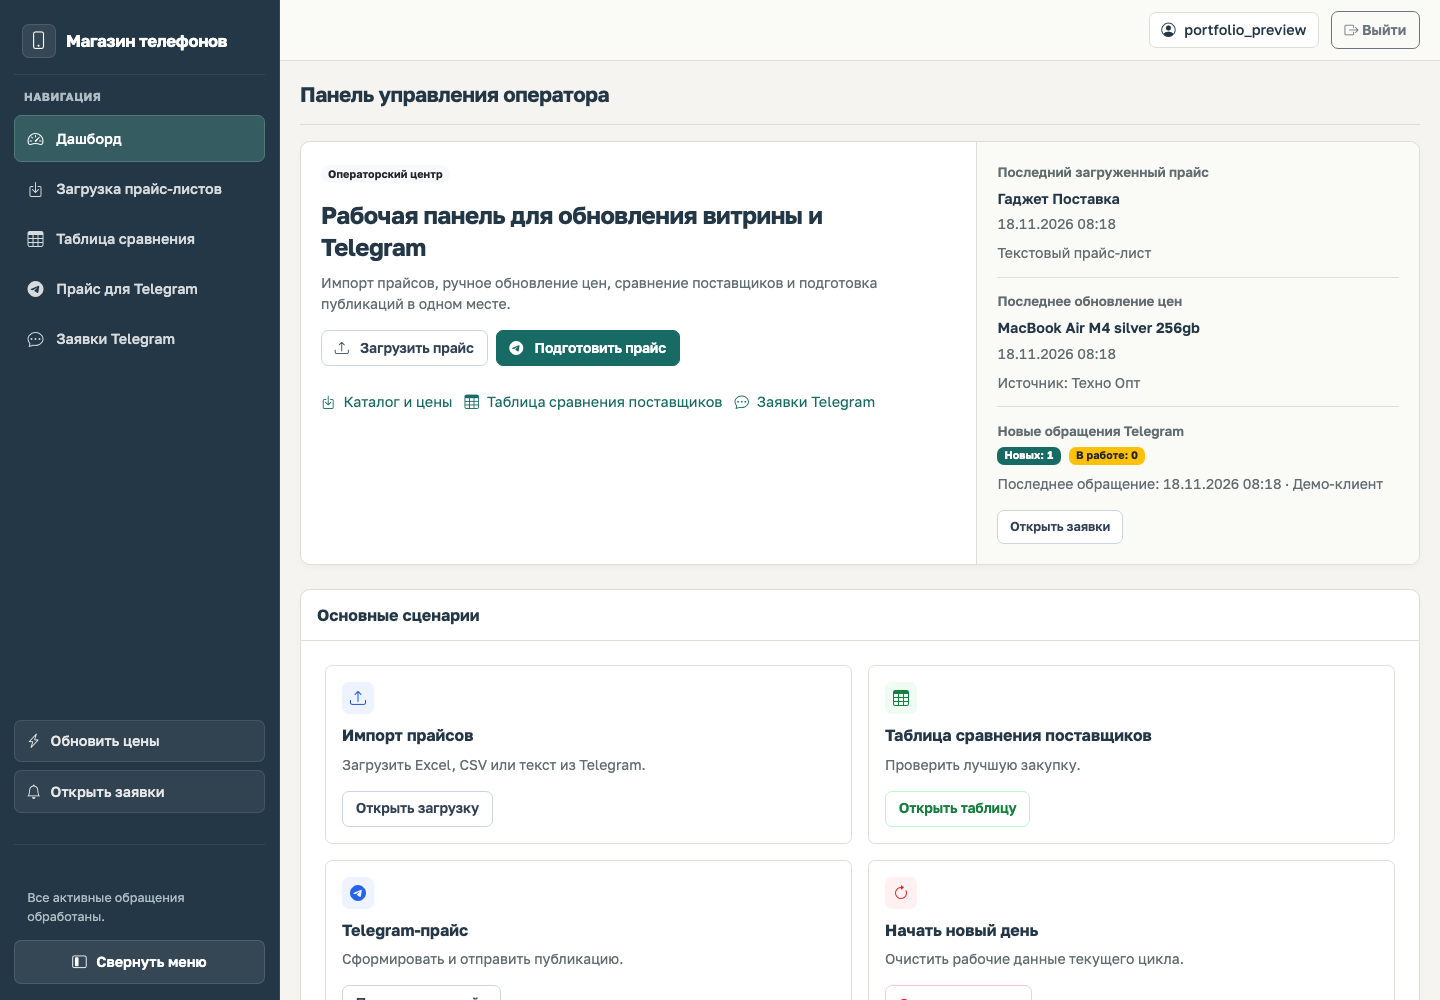
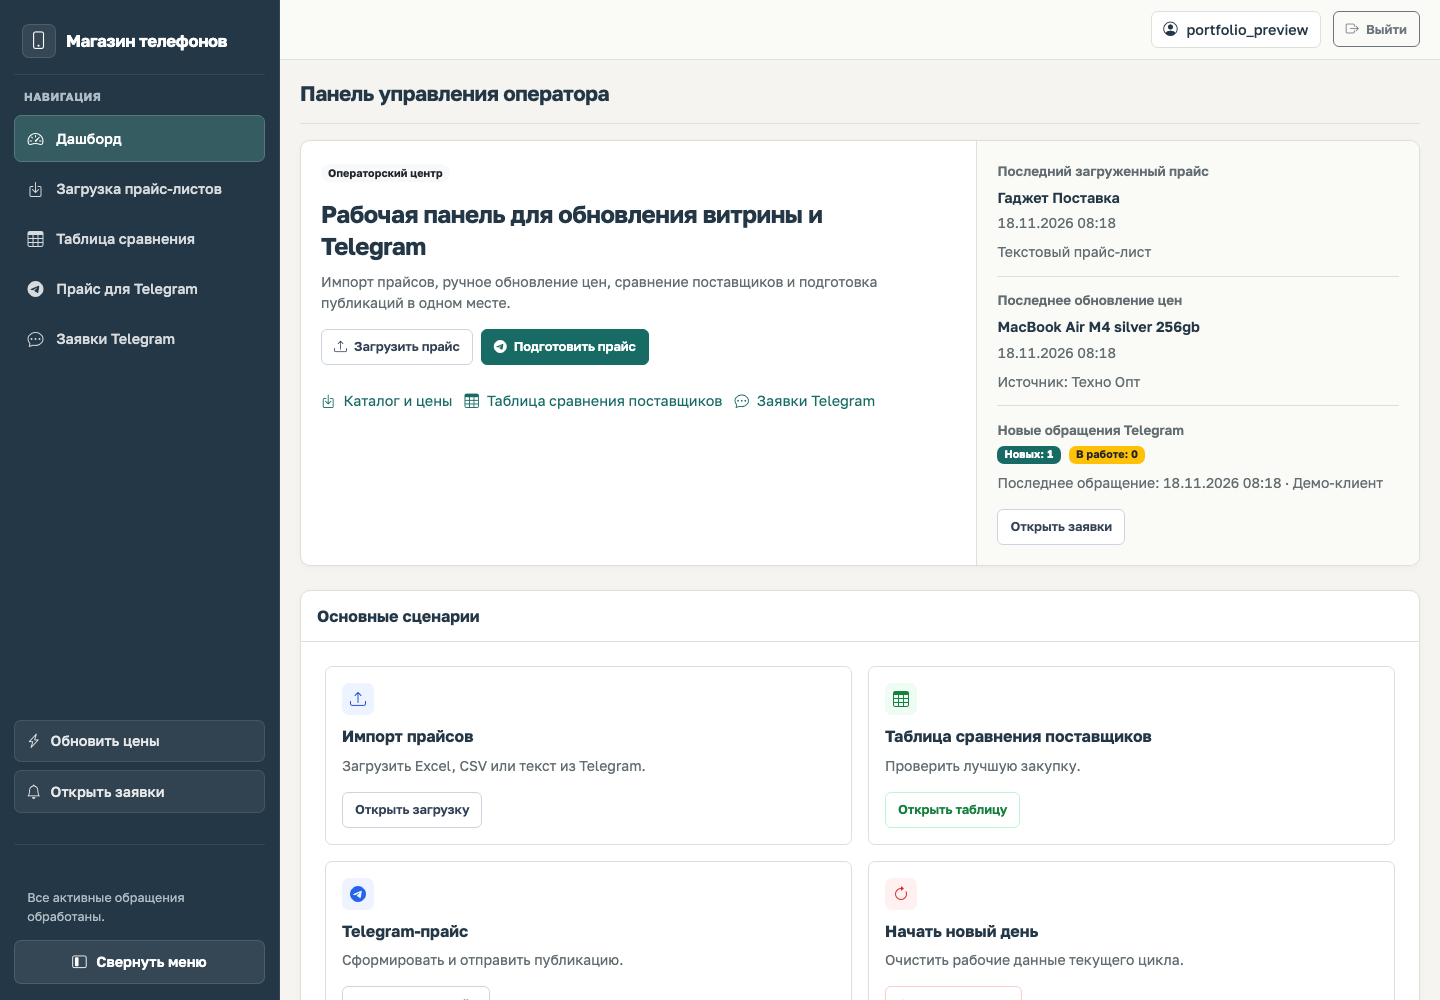
Unify compact buttons and remove audit from published documentation

diff --git a/templates/operators/telegram_price_builder.html b/templates/operators/telegram_price_builder.html
@@ -40,39 +40,47 @@
         background: linear-gradient(180deg, #ffffff 0%, #f8fbff 100%);
     }
 
-    .builder-action-btn {
-        min-height: 72px;
+    .builder-settings-toolbar {
         display: flex;
+        flex-wrap: wrap;
+        align-items: flex-end;
+        gap: 0.75rem;
+    }
+
+    .builder-markup-field {
+        width: 120px;
+    }
+
+    .builder-settings-actions {
+        display: flex;
+        flex-wrap: wrap;
+        gap: 0.5rem;
+    }
+
+    .builder-action-btn {
+        display: inline-flex;
         align-items: center;
         justify-content: center;
         text-align: center;
-        line-height: 1.2;
     }
 
     .builder-action-btn-primary {
-        min-height: 72px;
-        box-shadow: 0 14px 30px rgba(29, 78, 216, 0.18);
+        box-shadow: none;
     }
 
     .builder-action-btn-secondary {
-        min-height: 72px;
-        background: #f8fbff;
-        border-color: #d8e4ff;
-        color: #1d4ed8;
+        background: var(--bg-surface);
+        border-color: var(--line-soft);
+        color: var(--text-main);
     }
 
-    .builder-action-btn-secondary:hover {
-        background: #eef4ff;
-        border-color: #bfd4ff;
-        color: #1d4ed8;
-    }
-
+    .builder-action-btn-secondary:hover,
     .builder-action-btn-secondary:focus,
     .builder-action-btn-secondary:active,
     .builder-action-btn-secondary.show {
-        background: #eef4ff;
-        border-color: #bfd4ff;
-        color: #1d4ed8;
+        background: var(--bg-soft);
+        border-color: var(--brand);
+        color: var(--brand-dark);
     }
 
     .builder-card {
@@ -153,8 +161,9 @@
     }
 
     .builder-publish-actions {
-        display: grid;
-        gap: 0.75rem;
+        display: flex;
+        flex-wrap: wrap;
+        gap: 0.5rem;
     }
 
     .builder-help-list {
@@ -229,6 +238,7 @@
     }
 </style>
 
+<div class="telegram-builder">
 <div class="card page-hero-card mb-4">
     <div class="builder-hero-grid">
         <div class="builder-hero-main">
@@ -274,25 +284,19 @@
         <h5 class="card-title mb-0">Параметры прайса</h5>
     </div>
     <div class="card-body p-4">
-        <div class="row g-3 align-items-end">
-            <div class="col-xl-3 col-md-6">
+        <div class="builder-settings-toolbar">
+            <div class="builder-markup-field">
                 <label class="form-label fw-bold">Наценка, %</label>
                 <input type="number" id="markupPercent" class="form-control" value="3" step="0.1" min="0">
             </div>
 
-            <div class="col-xl-3 col-md-6 d-grid">
+            <div class="builder-settings-actions">
                 <button type="button" class="btn btn-outline-primary builder-action-btn builder-action-btn-secondary" onclick="applyMarkup()">
                     <i class="bi bi-percent me-2"></i> Применить наценку
                 </button>
-            </div>
-
-            <div class="col-xl-3 col-md-6 d-grid">
                 <button type="button" class="btn btn-primary builder-action-btn builder-action-btn-primary" onclick="generateTelegramText()">
                     <i class="bi bi-magic me-2"></i> Сгенерировать прайс
                 </button>
-            </div>
-
-            <div class="col-xl-3 col-md-6 d-grid">
                 <button type="button"
                         class="btn btn-outline-secondary builder-action-btn builder-action-btn-secondary"
                         data-bs-toggle="collapse"
@@ -625,6 +629,7 @@
 
 
 
+</div>
 <script>
 function roundUpTo500(value) {
     return Math.ceil(value / 500) * 500;

diff --git a/operators/static/operators/css/workspace.css b/operators/static/operators/css/workspace.css
@@ -85,10 +85,24 @@ h5, .card-title { font-size: 1rem; font-weight: 650; line-height: 1.4; }
 .soft-note { background: #f6f7f3; border-color: var(--line-soft); border-radius: 7px; }
 .alert { box-shadow: none; border-radius: 7px; }
 
-.btn, .ops-btn, .btn.ops-btn-sm { border-radius: 7px; font-size: 0.875rem; font-weight: 600; }
-.btn { --bs-btn-padding-y: 0.45rem; --bs-btn-padding-x: 0.8rem; }
-.btn-sm, .btn.ops-btn-sm { font-size: 0.8rem; }
-.ops-btn { min-height: 36px; padding: 0.55rem 0.8rem; }
+.btn, .ops-btn, .ops-btn.ops-btn-sm, .btn-sm.ops-btn {
+    display: inline-flex;
+    align-items: center;
+    justify-content: center;
+    gap: 0.45rem;
+    min-height: 36px;
+    padding: 0.45rem 0.75rem;
+    border-radius: 6px;
+    font-size: 0.8125rem;
+    font-weight: 600;
+    line-height: 1.35;
+    vertical-align: middle;
+}
+/* Button gap replaces old icon margins, including Bootstrap me-* utilities. */
+.btn > i, .btn > svg { flex-shrink: 0; margin-inline: 0 !important; }
+@media (min-width: 992px) {
+    .btn.sidebar-toggler { display: none; }
+}
 .btn-primary, .btn.ops-btn-primary {
     --bs-btn-disabled-bg: #176b64;
     --bs-btn-disabled-border-color: #176b64;

diff --git a/templates/operators/upload.html b/templates/operators/upload.html
@@ -39,14 +39,6 @@
     }
 
     .mode-switch .btn {
-        min-width: 148px;
-        min-height: 48px;
-        padding: 0.55rem 0.8rem;
-        display: inline-flex;
-        align-items: center;
-        justify-content: center;
-        font-weight: 700;
-        font-size: 0.9rem;
         white-space: nowrap;
     }
 

diff --git a/scripts/capture_screenshots.py b/scripts/capture_screenshots.py
@@ -43,6 +43,12 @@ def main():
             assert response.status == 200, (name, response.status)
             for close in page.locator('.live-toast__close').all():
                 close.click()
+            if name in {'import', 'catalog', 'telegram-price'}:
+                buttons = page.locator('.mode-switch .btn, .builder-action-btn').evaluate_all('''buttons => buttons.map(button => ({
+                    height: button.getBoundingClientRect().height,
+                    gap: parseFloat(getComputedStyle(button).columnGap)
+                }))''')
+                assert all(35 <= button['height'] <= 38 and button['gap'] >= 6 for button in buttons), buttons
             if name == 'requests':
                 page.locator('.telegram-request-accordion summary').first.click()
                 field = page.locator('textarea[name="reply_text"]').first
@@ -50,6 +56,8 @@ def main():
                 page.wait_for_timeout(5200)
                 assert field.input_value() == 'Здравствуйте! Проверяем наличие на складе.', 'Draft was reset by live refresh'
             if name == 'telegram-price':
+                heights = page.locator('.builder-action-btn').evaluate_all('(buttons) => buttons.map(button => button.getBoundingClientRect().height)')
+                assert all(30 <= height <= 38 for height in heights), heights
                 page.evaluate('generateTelegramText()')
                 text = page.locator('#telegramOutput').input_value()
                 assert 'Galaxy S25' in text and '17 Pro Max' in text, text
@@ -64,6 +72,12 @@ def main():
             close.click()
         assert page.evaluate('document.documentElement.scrollWidth <= innerWidth'), 'Mobile page overflow'
         page.screenshot(path=str(directory / 'mobile.png'), full_page=True)
+        page.goto('http://127.0.0.1:8011/operators/telegram-price/', wait_until='networkidle')
+        assert page.evaluate('document.documentElement.scrollWidth <= innerWidth'), 'Mobile builder overflow'
+        for close in page.locator('.live-toast__close').all():
+            close.click()
+        page.locator('.builder-settings-toolbar').scroll_into_view_if_needed()
+        page.screenshot(path=str(directory / 'telegram-mobile.png'))
         assert not errors, errors
         browser.close()
 

diff --git a/README.md b/README.md
@@ -52,12 +52,13 @@
 
 <img src="docs/screenshots/mobile.png" width="390" alt="Мобильная рабочая панель">
 
+<img src="docs/screenshots/telegram-mobile.png" width="390" alt="Компактная панель подготовки прайса на телефоне">
+
 </details>
 
 ## Статус релиза
 
-Демонстрационная версия для портфолио. [Аудит кода](AUDIT.md) описывает
-найденные проблемы, их исправления и ограничения эксплуатации.
+Демонстрационная версия для портфолио.
 В v0.2.1 исправлены атомарность импорта, денежные форматы, замена цен поставщика,
 повторы Telegram, частичная отправка прайса и очистка сообщений.
 

diff --git a/CHANGELOG.md b/CHANGELOG.md
@@ -19,4 +19,4 @@
 - Сохранение ручных цен и карточек каталога при повторной агрегации.
 - Новый Telegram-прайс отправляется до удаления старого.
 - Диагностика доступна staff; healthcheck не обращается к Telegram.
-- Отчет аудита с известными ограничениями и регрессионные тесты.
+- Регрессионные тесты основных сценариев.
